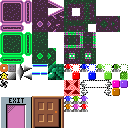
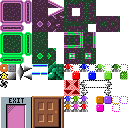
tweak the buttons some more

Changed region(s): [[0.75, 0.625, 1.0, 0.875], [0.875, 0.5, 0.9062, 0.5312]]

diff --git a/assets/purple.tsx b/assets/purple.tsx
@@ -295,6 +295,30 @@
    <property name="solid" type="bool" value="true"/>
   </properties>
  </tile>
+ <tile id="204">
+  <properties>
+   <property name="alternate" type="int" value="206"/>
+   <property name="condition" value="orange"/>
+  </properties>
+ </tile>
+ <tile id="205">
+  <properties>
+   <property name="alternate" type="int" value="207"/>
+   <property name="condition" value="purple"/>
+  </properties>
+ </tile>
+ <tile id="206">
+  <properties>
+   <property name="alternate" type="int" value="204"/>
+   <property name="condition" value="!orange"/>
+  </properties>
+ </tile>
+ <tile id="207">
+  <properties>
+   <property name="alternate" type="int" value="205"/>
+   <property name="condition" value="!purple"/>
+  </properties>
+ </tile>
  <tile id="216">
   <properties>
    <property name="button" type="bool" value="true"/>
@@ -314,6 +338,30 @@
    <property name="button" type="bool" value="true"/>
    <property name="color" value="red"/>
    <property name="solid" type="bool" value="true"/>
+  </properties>
+ </tile>
+ <tile id="220">
+  <properties>
+   <property name="alternate" type="int" value="222"/>
+   <property name="condition" value="pink"/>
+  </properties>
+ </tile>
+ <tile id="221">
+  <properties>
+   <property name="alternate" type="int" value="0"/>
+   <property name="condition" value=""/>
+  </properties>
+ </tile>
+ <tile id="222">
+  <properties>
+   <property name="alternate" type="int" value="220"/>
+   <property name="condition" value="!pink"/>
+  </properties>
+ </tile>
+ <tile id="223">
+  <properties>
+   <property name="alternate" type="int" value="0"/>
+   <property name="condition" value=""/>
   </properties>
  </tile>
  <wangsets>
